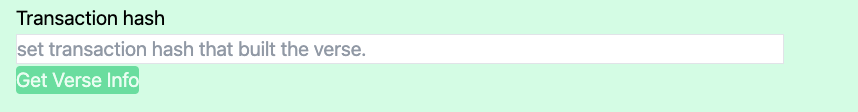
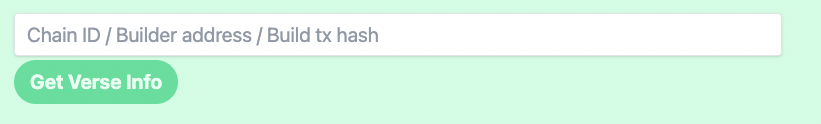
enable to get verseInfo from chainId

diff --git a/docs/verse-developer/2-how-to-build-verse/1-2-manual.md b/docs/verse-developer/2-how-to-build-verse/1-2-manual.md
@@ -95,7 +95,7 @@ To build a Verse, set the following
 ![Build](/img/docs/techdocs/oasys-pos-fe/build.png)
 
 
-If the Verse build is successful, the following will be displayed. You must memo build_transaction to check VerseInfo at [check-verse-page](#4-2-check-verse-information-from-verse_build-transaction).
+If the Verse build is successful, the following will be displayed. You can get verse info with build_tx_hash at [check-verse-page](#4-2-check-verse-information-from-verse_build-transaction).
 
 ![Verse build Success](/img/docs/techdocs/oasys-pos-fe/verse_build_success.png)
 
@@ -116,8 +116,8 @@ After completing this step, return to the `verse-layer-optimism` repository.
 cd /path/to/verse-layer-optimism
 ```
 
-## 4-2. Check verse information from the verse_build transaction
-You can check verse information from the verse_build transaction at [check-verse-page](https://tools-fe.oasys.games/check-verse).
+## 4-2. Check verse information
+You can check verse information from verse-build_tx_hash or verse_chain_id or verse_builder_address at [check-verse-page](https://tools-fe.oasys.games/check-verse).
 ![Check verse info](/img/docs/techdocs/oasys-pos-fe/check_verse_info.png)
 
 You can also download address.json and genesis.json as well as [Build verse](#build-verse).

diff --git a/docs/verse-developer/2-how-to-build-verse/1-7-read-node.md b/docs/verse-developer/2-how-to-build-verse/1-7-read-node.md
@@ -5,9 +5,9 @@ The read-only verse nodes are synchronized with the verse itself, and users can 
 
 ## Setup
 ### Get verse settings
-You have to get the verse setting on [tools-fe](https://tools-fe.oasys.games/check-verse) with verse-build tx. Please refer to the following to obtain addressses.json and genesis.json, which contain the settings for verse.
+You have to get the verse setting on [tools-fe](https://tools-fe.oasys.games/check-verse) with verse-build_tx_hash or verse_chain_id or verse_builder_address. Please refer to the following to obtain addressses.json and genesis.json, which contain the settings for verse.
 
-- [Check verse information from the verse_build transaction](https://docs.oasys.games/docs/verse-developer/how-to-build-verse/1-2-manual#4-2-check-verse-information-from-the-verse_build-transaction)
+- [Check verse information](https://docs.oasys.games/docs/verse-developer/how-to-build-verse/1-2-manual#4-2-check-verse-information)
 
 ### Set Environment variable
 As well as the verse construction, use [verse-layer-optimism](https://github.com/oasysgames/verse-layer-optimism) to launch the read-only verse node.
